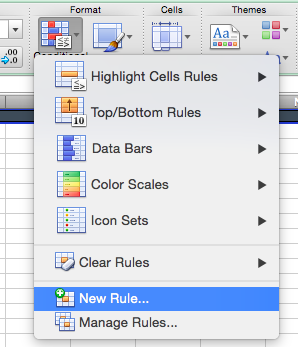
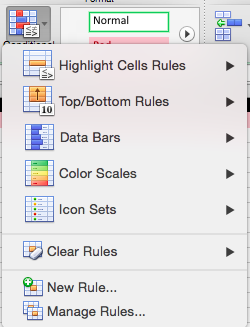
new rule

diff --git a/_posts/2015-07-07-excel-data-dumps.md b/_posts/2015-07-07-excel-data-dumps.md
@@ -45,6 +45,8 @@ Finally, add the following headers, ``First Name``, ``Last Name``, ``Income``:
 <p style="text-align:center"><img src="../img/posts/excel-data-dumps/case1_look.png" alt="headers" style='padding:1px; border:1px solid #021a40;'></p>
 <BR><BR>
 Now, let’s add some conditional formatting. Go to ``Home —> Format —> Conditional Formatting`` and select New Rule:
+<p style="text-align:center"><img src="../img/posts/excel-data-dumps/new-rule.png" alt="new formatting rule" style='padding:1px; border:1px solid #021a40;'></p>
+<BR><BR>
 <p style="text-align:center"><img src="../img/posts/excel-data-dumps/new-formatting-rule.png" alt="new formatting rule" style='padding:1px; border:1px solid #021a40;'></p>
 <BR><BR>
 Select ‘Classic’ and the following options on the Mac, or Use a formula to determine which cells to format on Windows:
